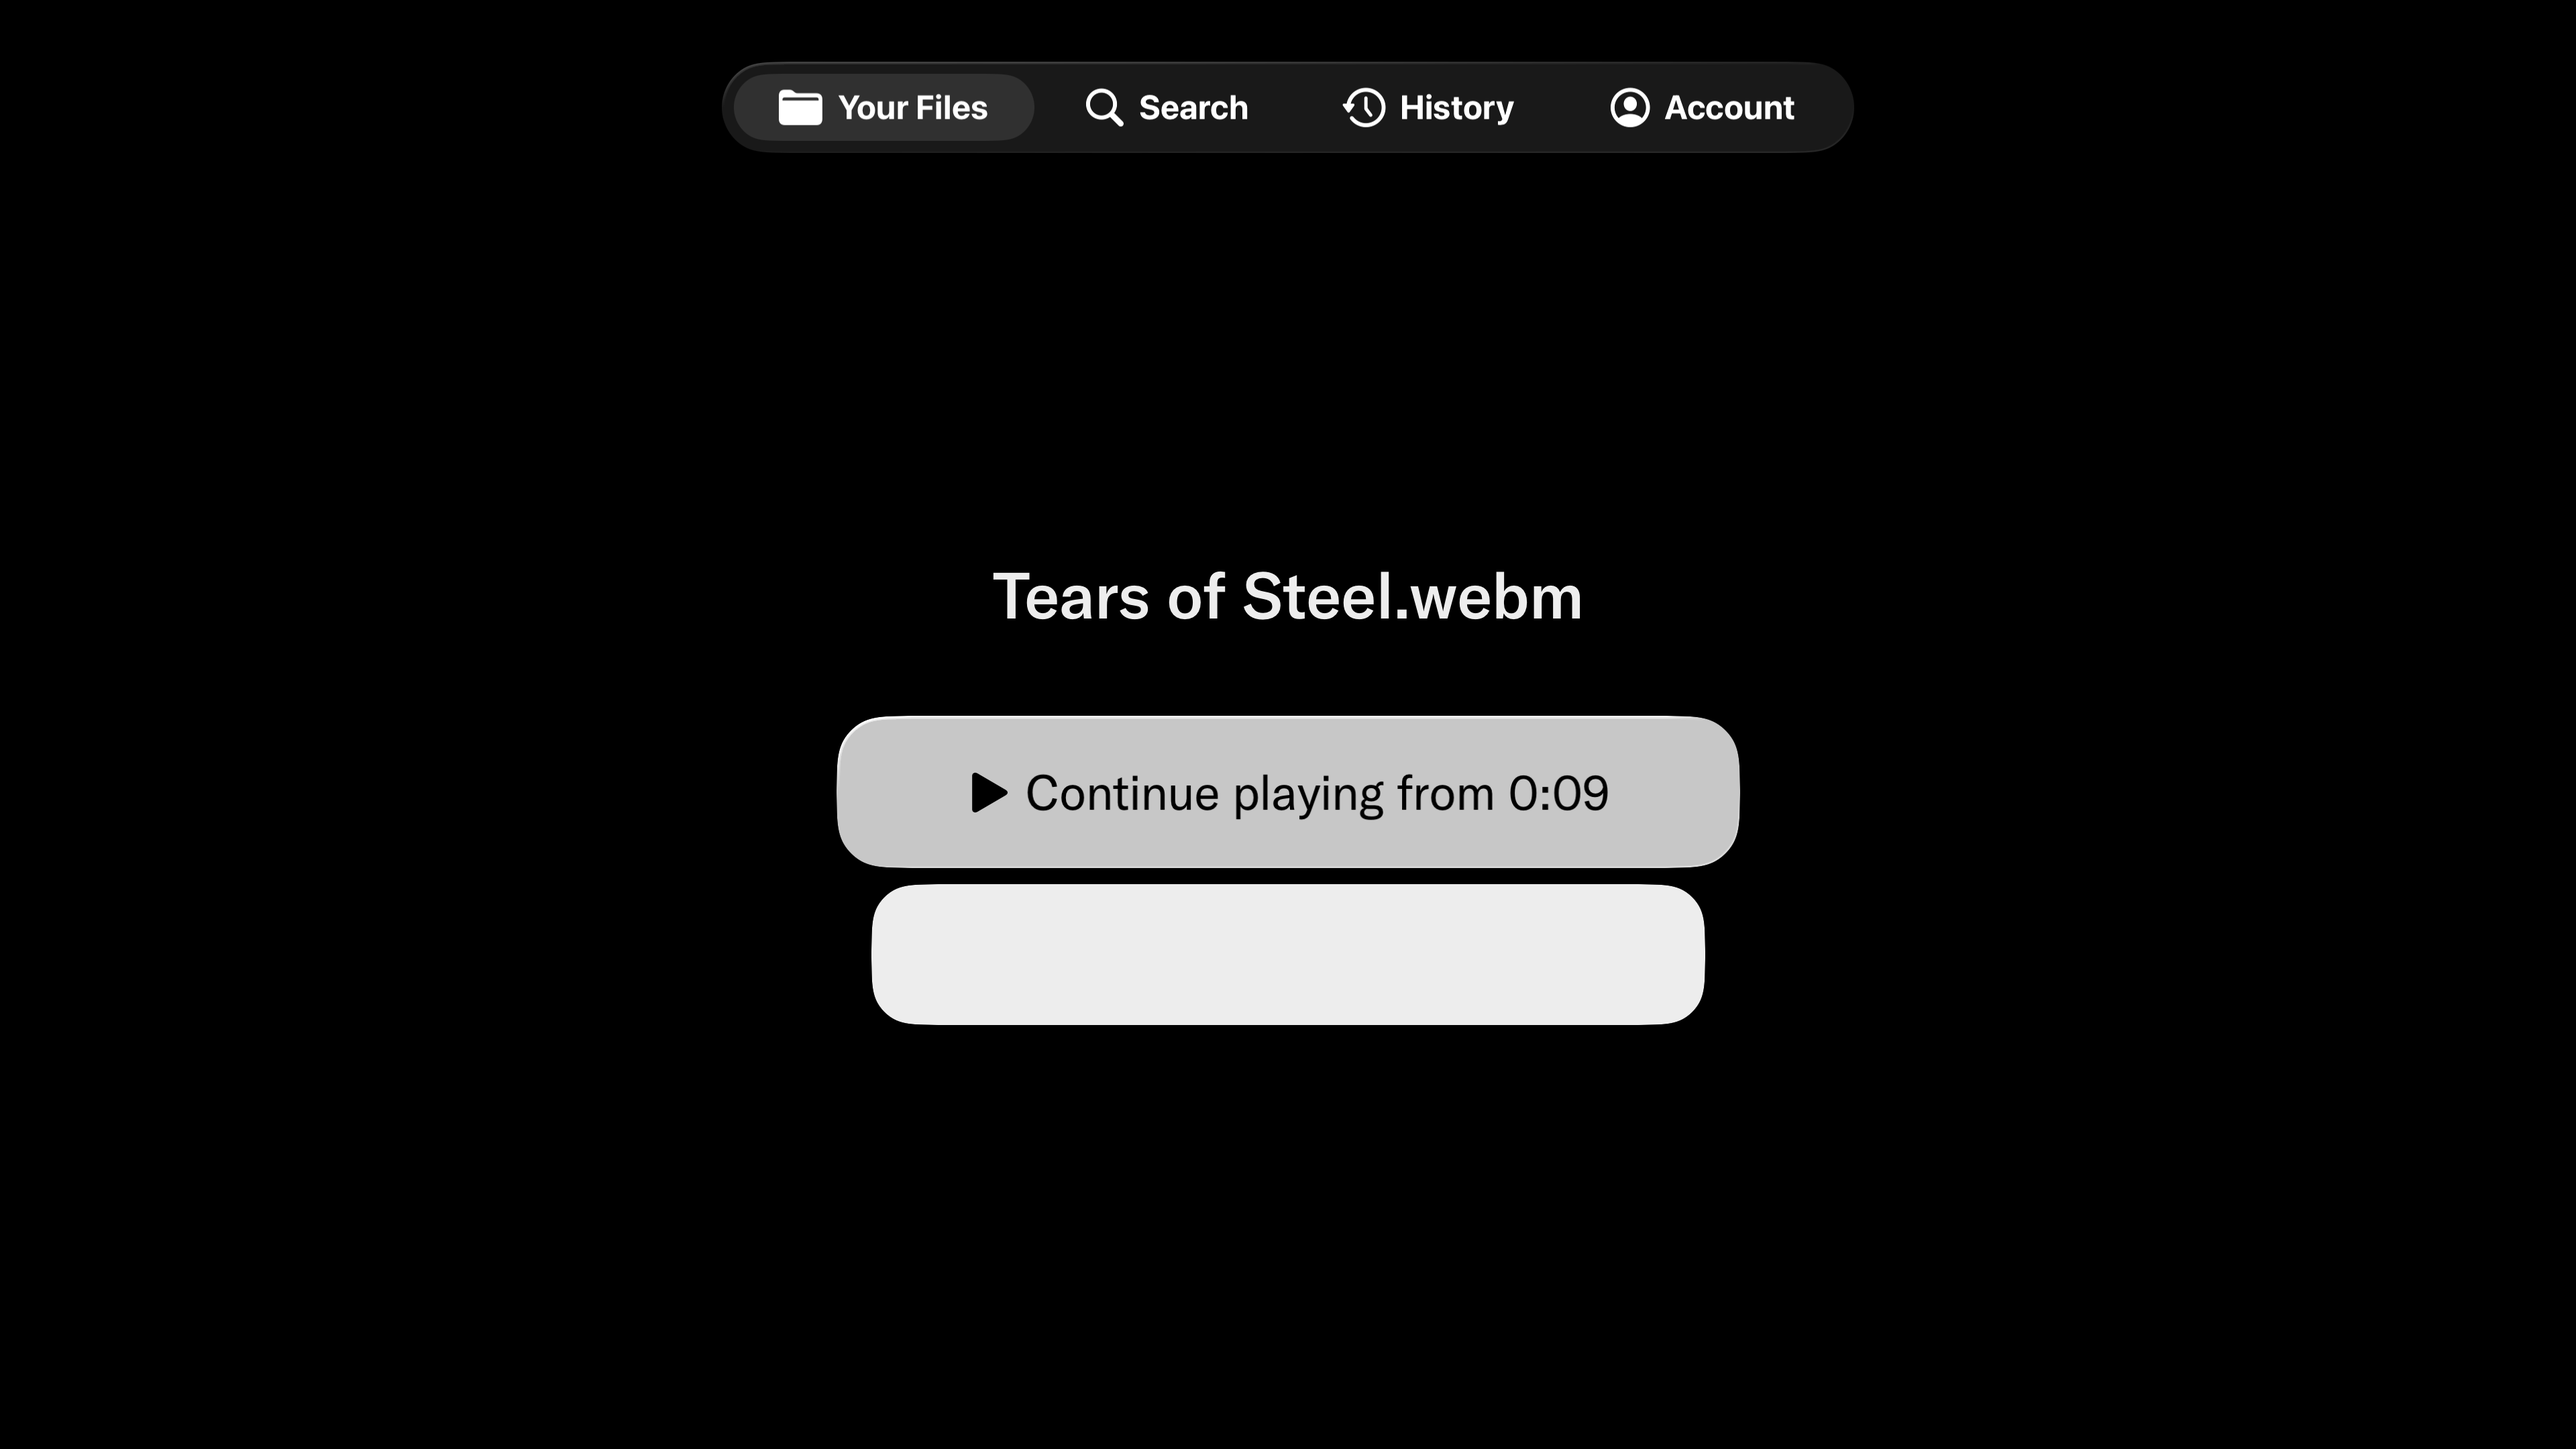
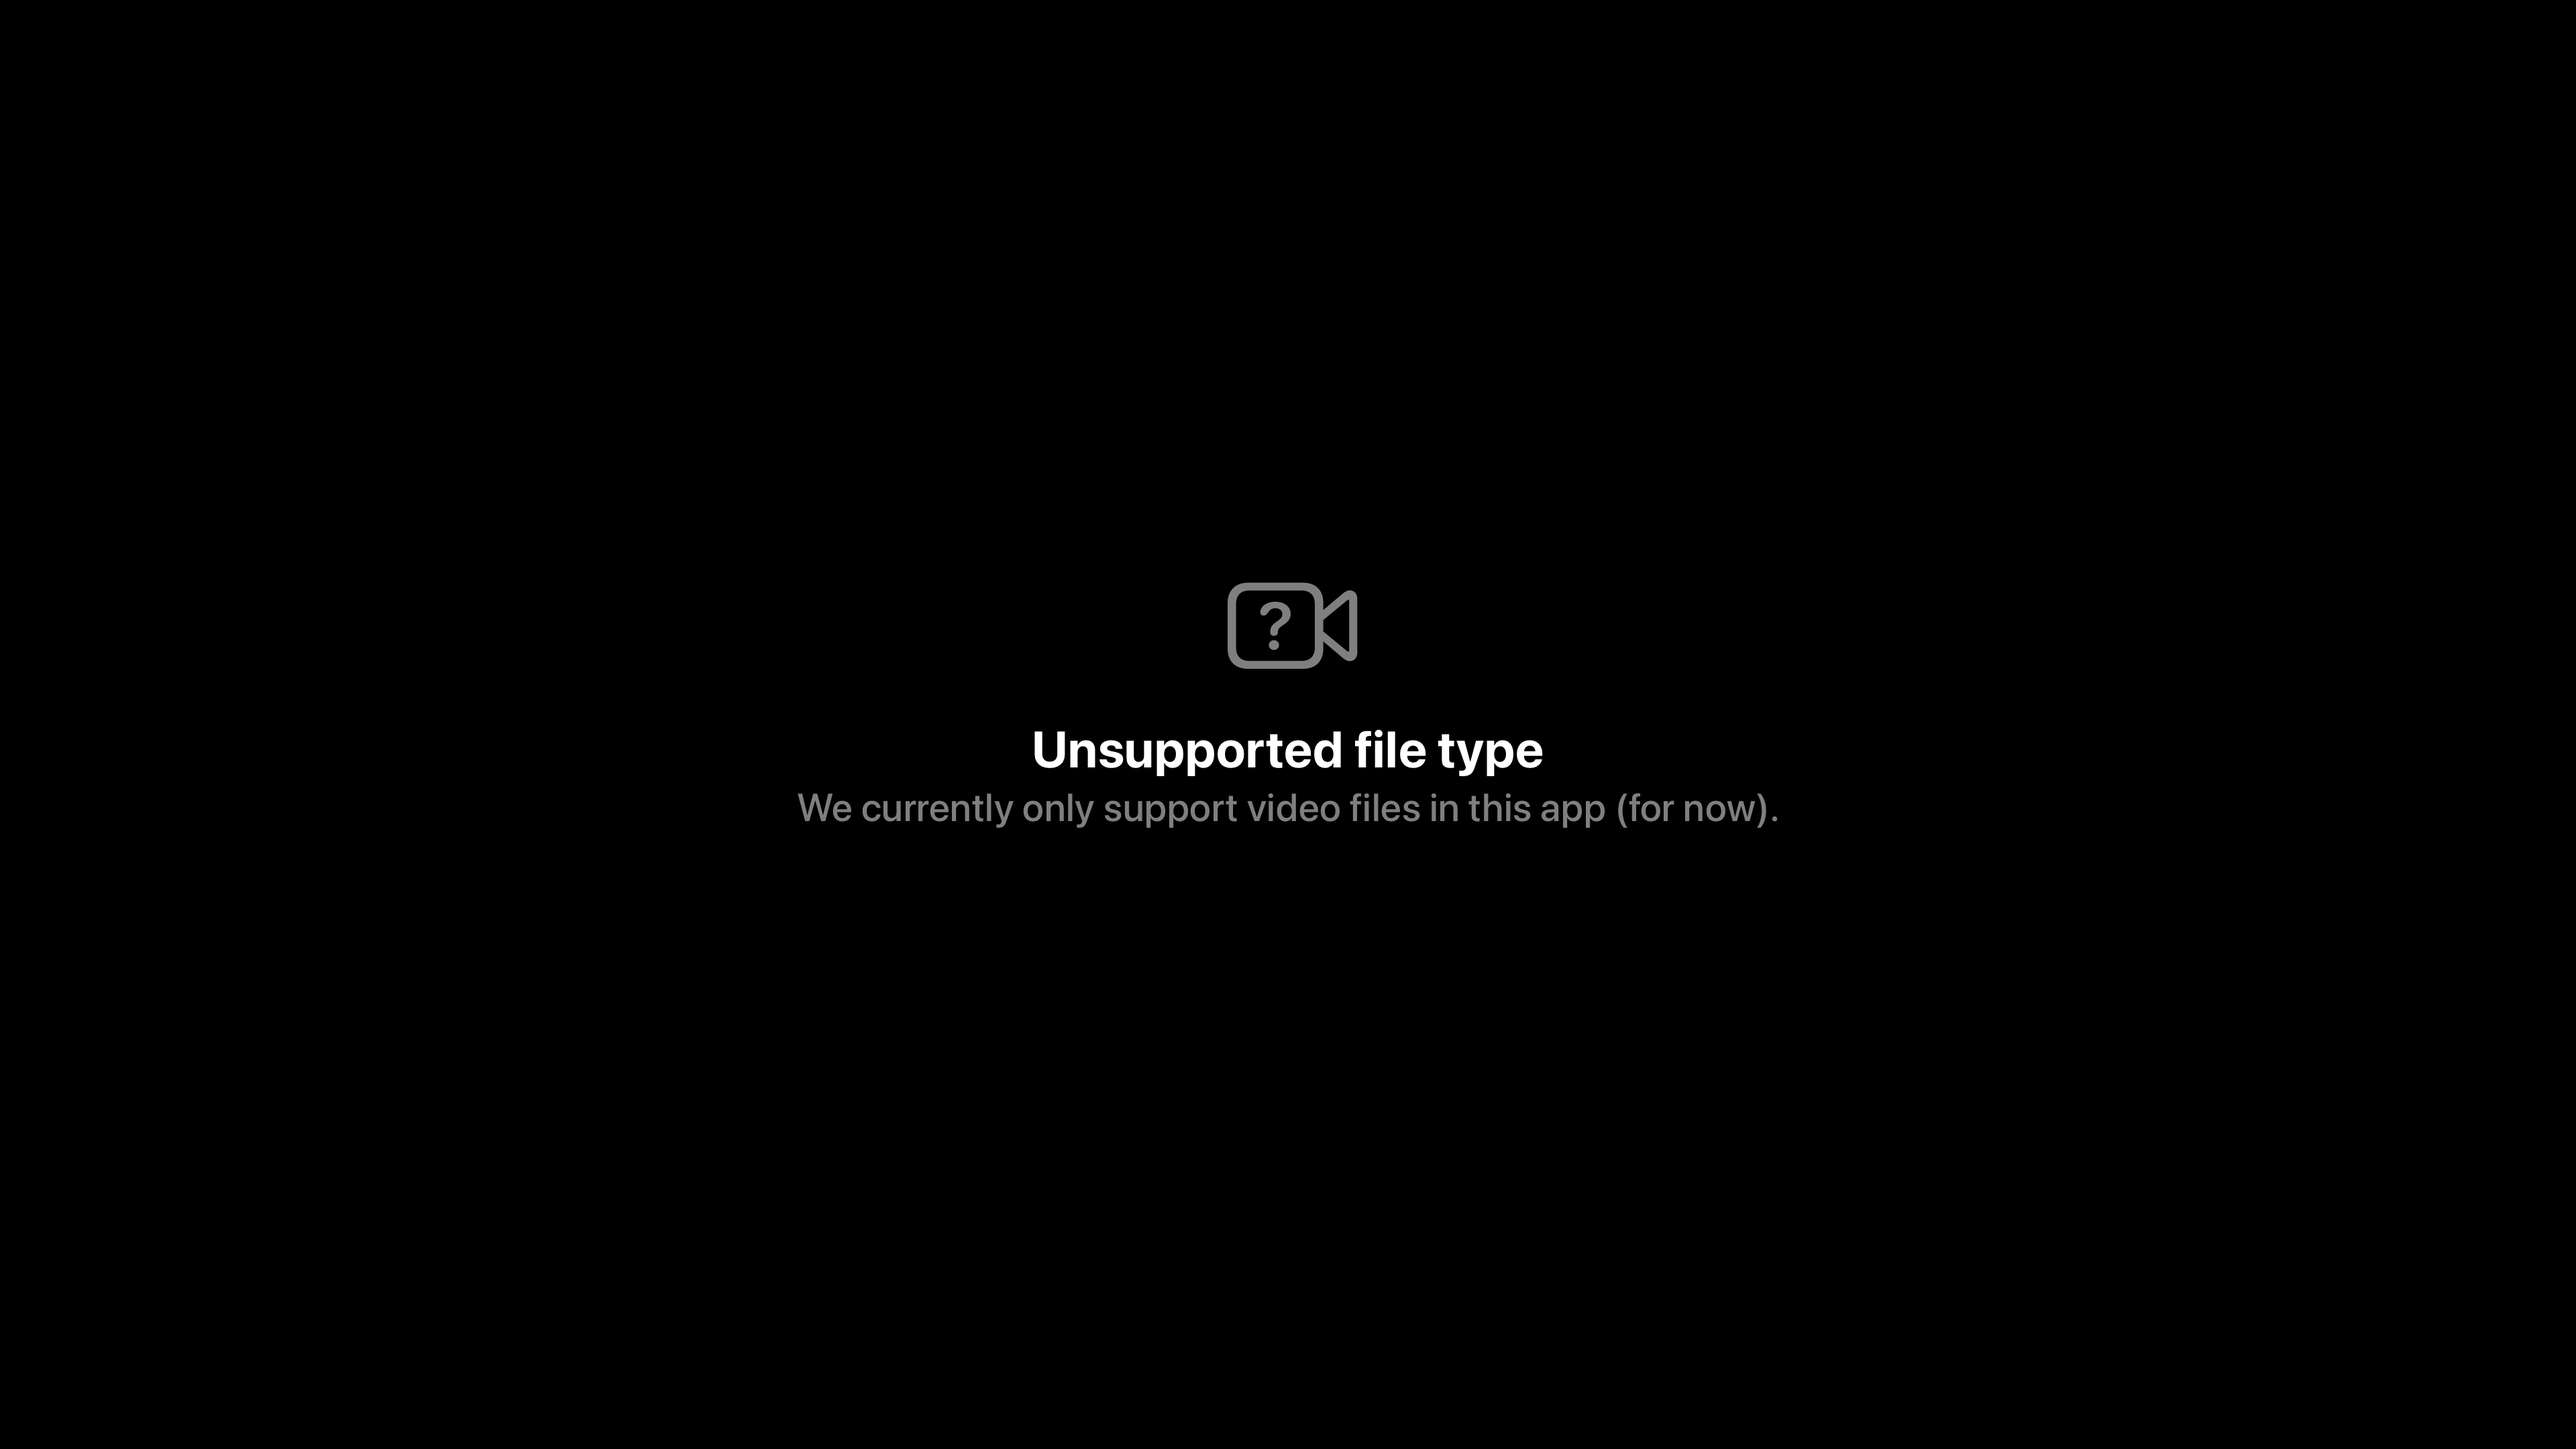
fix(tvos): native auth screen, system sort menu, visible resume buttons
- AuthCodeView rebuilt around system typography (.system 64/44/32) and
  system buttons. Activation tiles bumped to 160×180 with bold 120pt
  rounded characters so the code is legible from across the room. The
  "put.io/link" callout reads as a yellow rounded headline. Footer drops
  the bundle-id breadcrumb in favor of "Version 1.0 (1)".
- ResumePromptView buttons now render legibly: the Resume action uses
  `.borderedProminent` + `.tint(yellowSolid)` + `.foregroundStyle(.black)`
  and the secondary "Start from beginning" uses plain `.bordered` with
  `.foregroundStyle(.white)`, so neither button collapses into a
  white-on-white pill when focused.
- Files toolbar sort drops the `Menu { Picker }` nesting in favor of
  flat `Menu { ForEach Button }` items with a checkmark glyph on the
  active value — matches Files.app / TV+ dropdown behavior on tvOS.

Changed region(s): [[0.3125, 0.4963, 0.6875, 0.7134], [0.2812, 0.031, 0.7188, 0.1241], [0.375, 0.3722, 0.625, 0.4653]]

diff --git a/PutioTV/Features/Auth/AuthCodeView.swift b/PutioTV/Features/Auth/AuthCodeView.swift
@@ -14,7 +14,7 @@ struct AuthCodeView: View {
             VStack {
                 Spacer()
                 AppInfoFooter()
-                    .padding(.bottom, PutSpacing.md + PutSafe.vertical)
+                    .padding(.bottom, 48)
             }
         }
         .onAppear {
@@ -45,33 +45,40 @@ struct AuthCodeView: View {
     }
 
     private func codeView(code: String) -> some View {
-        VStack(spacing: PutSpacing.lg) {
-            Text("┌( ಠ‿ಠ)┘ welcome!")
-                .font(.put.heading)
-                .foregroundStyle(Color.put.text)
-
-            VStack(spacing: PutSpacing.sm) {
-                Text("use this activation code to log in")
-                    .font(.put.body)
-                    .foregroundStyle(Color.put.text)
-                ActivationCode(code: code)
+        VStack(spacing: 56) {
+            VStack(spacing: 16) {
+                Text("Welcome to put.io")
+                    .font(.system(size: 64, weight: .semibold))
+                    .foregroundStyle(.white)
+                Text("Enter this code to sign in to your account")
+                    .font(.system(size: 32))
+                    .foregroundStyle(.secondary)
             }
 
-            VStack(spacing: PutSpacing.xs) {
-                Text("follow the steps at the website below")
-                    .font(.put.body)
-                    .foregroundStyle(Color.put.text)
+            ActivationCode(code: code)
+
+            VStack(spacing: 8) {
+                Text("Visit the URL below from any device:")
+                    .font(.system(size: 28))
+                    .foregroundStyle(.secondary)
                 Text(PutioTV.Constants.appLinkURL)
-                    .font(.put.label)
+                    .font(.system(size: 48, weight: .semibold, design: .rounded))
                     .foregroundStyle(Color.put.yellowSolid)
             }
 
-            PutButton(title: "Get new code", icon: "refresh-ccw", hasTVPreferredFocus: true) {
+            Button {
                 session.start()
+            } label: {
+                Label("Get new code", systemImage: "arrow.clockwise")
+                    .padding(.horizontal, 32)
+                    .padding(.vertical, 12)
             }
+            .buttonStyle(.borderedProminent)
+            .tint(Color.put.yellowSolid)
+            .foregroundStyle(.black)
             .id(code)
         }
-        .padding(PutSpacing.xxl)
+        .padding(80)
     }
 }
 
@@ -81,15 +88,15 @@ struct ActivationCode: View {
     let code: String
 
     var body: some View {
-        HStack(spacing: PutSpacing.sm) {
+        HStack(spacing: 24) {
             ForEach(Array(code.enumerated()), id: \.offset) { _, ch in
                 Text(String(ch))
-                    .font(.put.label)
-                    .foregroundStyle(Color.put.loContrast)
-                    .frame(width: 96, height: 96)
+                    .font(.system(size: 120, weight: .bold, design: .rounded))
+                    .foregroundStyle(.black)
+                    .frame(width: 160, height: 180)
                     .background(
-                        RoundedRectangle(cornerRadius: PutRadius.default, style: .continuous)
-                            .fill(Color.put.hiContrast)
+                        RoundedRectangle(cornerRadius: 20, style: .continuous)
+                            .fill(.white)
                     )
             }
         }
@@ -99,12 +106,11 @@ struct ActivationCode: View {
 struct AppInfoFooter: View {
     var body: some View {
         let info = Bundle.main.infoDictionary
-        let bundleID = info?["CFBundleIdentifier"] as? String ?? "io.put.tvos"
         let short = info?["CFBundleShortVersionString"] as? String ?? "0.0"
         let build = info?["CFBundleVersion"] as? String ?? "0"
-        Text("\(bundleID)@\(short)+\(build)")
-            .font(.put.smol)
-            .foregroundStyle(Color.put.textSecondary)
+        Text("Version \(short) (\(build))")
+            .font(.system(size: 22))
+            .foregroundStyle(.tertiary)
             .frame(maxWidth: .infinity)
     }
 }

diff --git a/PutioTV/Features/Player/PlayerView.swift b/PutioTV/Features/Player/PlayerView.swift
@@ -88,7 +88,7 @@ struct ResumePromptView: View {
     var body: some View {
         VStack(spacing: 48) {
             Text(file.name)
-                .font(.title)
+                .font(.system(size: 44, weight: .semibold))
                 .foregroundStyle(.white)
                 .multilineTextAlignment(.center)
                 .padding(.horizontal, 128)
@@ -98,16 +98,23 @@ struct ResumePromptView: View {
                     onResume()
                 } label: {
                     Label("Resume from \(formattedResumeOffset)", systemImage: "play.fill")
+                        .padding(.horizontal, 24)
+                        .padding(.vertical, 12)
                 }
                 .buttonStyle(.borderedProminent)
+                .tint(Color.put.yellowSolid)
+                .foregroundStyle(.black)
                 .focused($resumeFocused)
 
                 Button {
                     onStartOver()
                 } label: {
                     Label("Start from beginning", systemImage: "backward.end.fill")
+                        .padding(.horizontal, 24)
+                        .padding(.vertical, 12)
                 }
                 .buttonStyle(.bordered)
+                .foregroundStyle(.white)
             }
         }
         .onAppear { resumeFocused = true }

diff --git a/PutioTV/Features/Files/FilesView.swift b/PutioTV/Features/Files/FilesView.swift
@@ -50,24 +50,21 @@ struct FilesView: View {
             }
 
             Menu {
-                Picker("Sort", selection: sortBinding) {
-                    ForEach(FileSort.allCases) { sort in
-                        Text(sort.label).tag(sort.rawValue as String?)
+                ForEach(FileSort.allCases) { sort in
+                    Button {
+                        viewModel.setSort(sort.rawValue)
+                    } label: {
+                        if sort.rawValue == viewModel.currentSort {
+                            Label(sort.label, systemImage: "checkmark")
+                        } else {
+                            Text(sort.label)
+                        }
                     }
                 }
             } label: {
                 Label(sortLabel, systemImage: "arrow.up.arrow.down")
             }
         }
-    }
-
-    private var sortBinding: Binding<String?> {
-        Binding(
-            get: { viewModel.currentSort },
-            set: { newValue in
-                if let newValue { viewModel.setSort(newValue) }
-            }
-        )
     }
 
     private var sortLabel: String {
